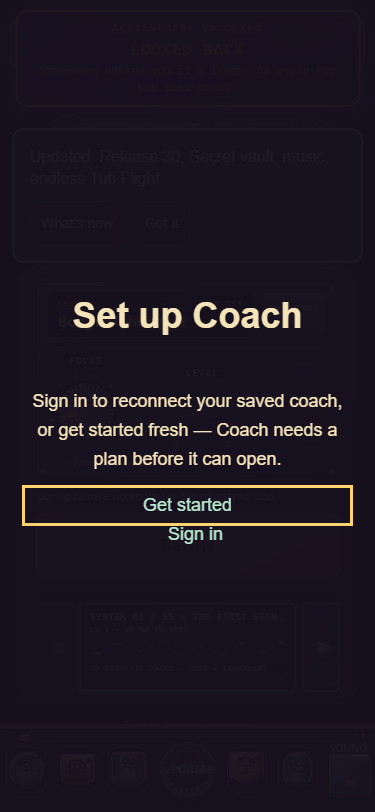
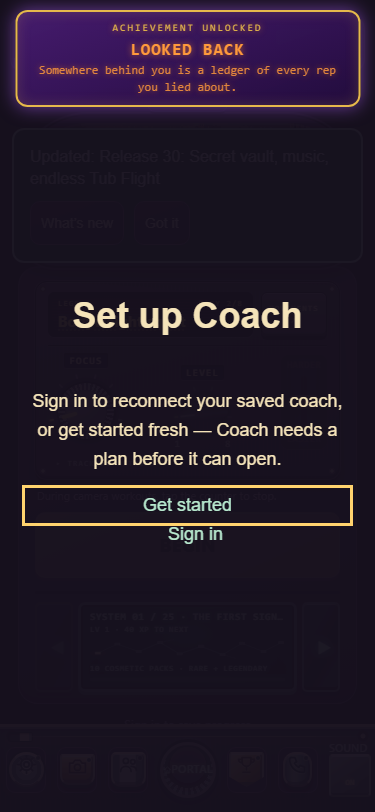
R30: e2e notes

Changed region(s): [[0.0, 0.0, 0.9973, 0.1539]]

diff --git a/.vault/cards/r30-review.md b/.vault/cards/r30-review.md
@@ -1,0 +1,152 @@
+Acceptance: (1) pod plays main-theme-one; hey-man-idk only on XP Flight dialog via myr5:music-scene; workout/select silent. (2) achievement banner top, queues, 5s then 0.6s fade, aria-live polite, tap dismiss, above modal dialogs. List concrete bugs only, with line quotes.
+diff --git a/audio/page-music.mjs b/audio/page-music.mjs
+index 67cb40f..1c62033 100644
+--- a/audio/page-music.mjs
++++ b/audio/page-music.mjs
+@@ -4,14 +4,17 @@
+ // Loops come from audio/music (scripts/music-loops.py): exactly 8 bars, loopStart 0 / loopEnd = duration, no encoder padding left.
+ import {physicalSound} from './physical-sound.mjs';
+ 
+-export const ROUTE_TRACK={pod:'hey-man-idk',workout:'hey-man-idk',select:'hey-man-idk',battlepass:'guarded-gate',achievements:'guarded-gate',vault:'guarded-gate',
++export const ROUTE_TRACK={pod:'main-theme-one',workout:null,select:null,battlepass:'hey-man-idk',achievements:'guarded-gate',vault:'guarded-gate',
+  customize:'daemon-time',customizeCoach:'daemon-time','war-room':'daemon-time',food:'sick-with-science',portal:'main-theme-one',settings:'main-theme-one',scoreboard:'laboratory-violence',meditate:null};
+ export const TRACK_LEVEL={'main-theme-one':.35};
+ export const TRACK_FADE={'main-theme-one':5};
+ export const FADE_IN=3,DUCK_LEVEL=.3,DUCK_DOWN=.12,DUCK_UP=1.2;
++// The pod and its menus share the grimoire song; hey-man-idk is only the XP Flight (battle pass) screen; workout/select stay silent (camera / pickers).
++// Pod + menus share the grimoire song; hey-man-idk is XP Flight (battle pass) only; workout/select are silent.
+ // Track for a scene. undefined = keep whatever plays (history, install...), null = silence (workout camera, meditation).
+-export function trackForRoute(id,{portalUp=false,quiet=false,pathname=''}={}){
++export function trackForRoute(id,{portalUp=false,quiet=false,pathname='',scene=null}={}){
+  if(quiet)return null;
++ if(scene==='battlepass')return 'hey-man-idk'; // XP Flight dialog opens over any page
+  if(/^\/(?:creature|war-room)\//.test(pathname))return 'daemon-time';
+  if(!id)return portalUp?ROUTE_TRACK.portal:ROUTE_TRACK.pod;
+  return ROUTE_TRACK[id];
+@@ -28,7 +31,7 @@ const MIX_KINDS=['ice','crackle','water'];
+ const BED_BOARD_GAIN=.5;
+ 
+ export function createPageMusic({sound=physicalSound,documentRef=globalThis.document,windowRef=globalThis.window,fetchRef=(...a)=>globalThis.fetch(...a),pathname=globalThis.location?.pathname||''}={}){
+- let ctx=null,out=null,duck=null,armed=false,want=undefined,epoch=0,cur=null,cut=null,manifest=null,manifestP=null,noise=null,warned=false;
++ let scene=null,ctx=null,out=null,duck=null,armed=false,want=undefined,epoch=0,cur=null,cut=null,manifest=null,manifestP=null,noise=null,warned=false;
+  const buffers=new Map(),log=[];
+  const warn=e=>{if(!warned){warned=true;console.warn('page music:',e?.message||e);}};
+  const note=(what,param,v0,v1,t0,t1)=>{log.push({what,v0,v1,t0,t1});if(log.length>60)log.shift();};
+@@ -144,7 +147,7 @@ export function createPageMusic({sound=physicalSound,documentRef=globalThis.docu
+  const quiet=()=>{const d=documentRef?.body?.dataset||{};return d.tracking==='true'||d.cameraWorkout==='true';};
+  function sync(){
+   const id=windowRef?.myr5Routes?.current?.()||'',portalUp=documentRef?.getElementById?.('portalHome')?.hidden===false;
+-  const t=trackForRoute(id,{portalUp,quiet:quiet(),pathname});
++  const t=trackForRoute(id,{portalUp,quiet:quiet(),pathname,scene});
+   if(t!==undefined)setTrack(t);
+  }
+  const unlock=()=>{if(armed)return;armed=true;documentRef.removeEventListener('pointerdown',unlock,true);documentRef.removeEventListener('keydown',unlock,true);ensure();sync();if(want!==undefined)setTrack(want);};
+@@ -155,6 +158,7 @@ export function createPageMusic({sound=physicalSound,documentRef=globalThis.docu
+   windowRef.addEventListener('myr5:sound-settings',()=>{level();if(!muted()&&ctx?.state==='suspended'&&!documentRef.hidden)void ctx.resume();});
+   windowRef.addEventListener('myr5:response',e=>{if(!duck)return;const p=duckPlan(e.detail?.state==='speaking');ramp(duck.gain,'duck',p.to,ctx.currentTime,p.seconds);});
+   windowRef.addEventListener('myr5:route',sync);
++  windowRef.addEventListener('myr5:music-scene',e=>{scene=e.detail?.scene||null;sync();});
+   windowRef.addEventListener('myr5:music-cut',()=>cutNow());
+   windowRef.addEventListener('myr5:music-resume',()=>resumeNow());
+   new MutationObserver(sync).observe(documentRef.body||documentRef.documentElement,{attributes:true,attributeFilter:['data-tracking','data-camera-workout']});
+diff --git a/battle-pass-page.mjs b/battle-pass-page.mjs
+index 4834fa5..03cc2dd 100644
+--- a/battle-pass-page.mjs
++++ b/battle-pass-page.mjs
+@@ -165,12 +165,12 @@ export function mountBattlePass(){
+  document.addEventListener('pointercancel',e=>{if(e.pointerId===activePointer)stopPointer();});
+  window.addEventListener('blur',stopPointer);
+   dialog.addEventListener('keydown',e=>{if(e.code==='Space'&&!e.repeat&&!e.altKey&&!e.ctrlKey&&!e.metaKey&&!e.target.closest('button,input,textarea,select')){e.preventDefault();scene.fire();}});
+- dialog.addEventListener('close',()=>{stopPointer();scene.stop();});
++ dialog.addEventListener('close',()=>{stopPointer();scene.stop();window.dispatchEvent(new CustomEvent('myr5:music-scene',{detail:{scene:null}}));});
+  document.addEventListener('visibilitychange',()=>{if(document.hidden){stopPointer();scene.stop();}else if(dialog.open)scene.start();});
+  window.addEventListener('resize',()=>{if(dialog.open)scene.resize();});
+  const open=()=>{
+   syncBattlePass();render();
+-  if(!dialog.open){scene.resetScore?.();dialog.showModal();}
++  if(!dialog.open){scene.resetScore?.();dialog.showModal();window.dispatchEvent(new CustomEvent('myr5:music-scene',{detail:{scene:'battlepass'}}));}
+   buildMap();
+   const targetChapter=previewFocus();
+   const target=targetChapter===chapterForLevel(rank.level)?route.querySelector('[aria-current="step"]'):route.querySelector(`[data-chapter="${targetChapter}"] [data-level="${targetChapter*10+8}"]`);
+diff --git a/modules/routes.mjs b/modules/routes.mjs
+index be9e454..cef95fd 100644
+--- a/modules/routes.mjs
++++ b/modules/routes.mjs
+@@ -241,7 +241,7 @@ function portalButton(event){
+ 
+ export function mountRoutes(){
+  if(window.myr5Routes)return window.myr5Routes;
+- import('./vault/vault-store.mjs').catch(()=>{}); // loads the store so it hears myr5:vault-bump from raw-served files (portal, pond)
++ import('./vault/vault-banner.mjs').catch(()=>{}).then(()=>import('./vault/vault-store.mjs')).catch(()=>{}); // banner first so it hears the drained-pending earns; loads the store so it hears myr5:vault-bump from raw-served files (portal, pond)
+  let seen='';
+  addEventListener('popstate',event=>{seen=location.href;sync(event);});
+  addEventListener('hashchange',()=>{const href=location.href,handled=href===seen;seen='';if(!handled)sync({type:'hashchange',state:history.state});});
+diff --git a/modules/vault/vault-banner.mjs b/modules/vault/vault-banner.mjs
+new file mode 100644
+index 0000000..7eb13e4
+--- /dev/null
++++ b/modules/vault/vault-banner.mjs
+@@ -0,0 +1,26 @@
++// "ACHIEVEMENT UNLOCKED" banner: listens for myr5:vault-earned {ids}, shows one goal at a time at the top for 5 s, fades 0.6 s.
++import {GOALS} from './vault-goals.mjs';
++export const SHOW_MS=5000,FADE_MS=600;
++/** Queue + timing, DOM-free so tests can drive it: show(goal) / hide() are callbacks. */
++export function createBanner({show,hide,done=()=>{},setTimer=setTimeout,clearTimer=clearTimeout}){
++ const q=[];let busy=false,t=0;
++ const next=()=>{const g=q.shift();if(!g){busy=false;return;}busy=true;show(g);t=setTimer(()=>{hide();t=setTimer(()=>{done();next();},FADE_MS);},SHOW_MS);};
++ return {push(ids){for(const id of ids||[]){const g=GOALS.find(x=>x.id===id);if(g)q.push(g);}if(!busy)next();},
++  dismiss(){if(!busy)return;clearTimer(t);hide();t=setTimer(()=>{done();next();},FADE_MS);}};
++}
++const CSS=`.vault-banner{position:fixed;inset:auto;margin:0;overflow:visible;left:50%;top:calc(env(safe-area-inset-top,0px) + 10px);z-index:2147483000;width:min(92vw,420px);box-sizing:border-box;padding:10px 14px;transform:translate(-50%,-14px);opacity:0;transition:opacity .6s ease,transform .6s ease;pointer-events:none;text-align:center;font:12px/1.35 ui-monospace,Menlo,Consolas,monospace;color:#ff9a3c;text-shadow:0 0 6px rgba(255,140,40,.7);background:linear-gradient(160deg,rgba(76,29,120,.88),rgba(36,12,64,.92));border:2px solid #e6b94c;border-radius:12px;box-shadow:0 0 18px rgba(176,96,255,.55),inset 0 0 14px rgba(230,185,76,.18);-webkit-backdrop-filter:blur(8px);backdrop-filter:blur(8px)}
++.vault-banner.on{opacity:1;transform:translate(-50%,0);pointer-events:auto}
++.vault-banner small{display:block;letter-spacing:.2em;font-size:10px;color:#e6b94c}
++.vault-banner b{display:block;font-size:17px;letter-spacing:.06em;margin:2px 0;text-transform:uppercase}
++.vault-banner span{display:block;opacity:.85}`;
++export function mountBanner(doc=document,win=window){
++ if(win.myr5VaultBanner)return win.myr5VaultBanner;
++ const st=doc.createElement('style');st.textContent=CSS;doc.head.append(st);
++ const el=doc.createElement('div');el.className='vault-banner';el.setAttribute('role','status');el.setAttribute('aria-live','polite');el.setAttribute('popover','manual');
++ const lab=doc.createElement('small'),ti=doc.createElement('b'),de=doc.createElement('span');lab.textContent='ACHIEVEMENT UNLOCKED';el.append(lab,ti,de);doc.body.append(el);
++ const b=createBanner({show:g=>{ti.textContent=g.title;de.textContent=g.clue;try{el.showPopover();}catch{el.style.display='block';}void el.offsetWidth;el.classList.add('on');},hide:()=>el.classList.remove('on'),done:()=>{try{el.hidePopover();}catch{el.style.display='';}}});
++ el.addEventListener('click',()=>b.dismiss());
++ win.addEventListener('myr5:vault-earned',e=>b.push(e.detail?.ids));
++ return win.myr5VaultBanner=b;
++}
++if(typeof document!=='undefined'&&typeof window!=='undefined')mountBanner();
+diff --git a/release-info.mjs b/release-info.mjs
+index a1d93b3..df4ff53 100644
+--- a/release-info.mjs
++++ b/release-info.mjs
+@@ -1,4 +1,4 @@
+ import {BUILD_ID} from './release-build.mjs';
+-export const RELEASE=Object.freeze({id:'2026-10-06-release-27-'+BUILD_ID,title:'Release 27: Customizer keeps your coach',date:'2026-10-06',url:'https://myr5.mominc.online/repair-coach',notes:[
+- "The customizer opens on the body you earned and saved instead of MYR5, and picks you make while your account re-checks are kept."
++export const RELEASE=Object.freeze({id:'2026-10-06-release-30-'+BUILD_ID,title:'Release 30: Secret vault, music, endless Tub Flight',date:'2026-10-06',url:'https://myr5.mominc.online/repair-coach',notes:[
++ "Secret vault, music, endless Tub Flight. Something is hidden in the grimoire."
+ ]});
+// "ACHIEVEMENT UNLOCKED" banner: listens for myr5:vault-earned {ids}, shows one goal at a time at the top for 5 s, fades 0.6 s.
+import {GOALS} from './vault-goals.mjs';
+export const SHOW_MS=5000,FADE_MS=600;
+/** Queue + timing, DOM-free so tests can drive it: show(goal) / hide() are callbacks. */
+export function createBanner({show,hide,done=()=>{},setTimer=setTimeout,clearTimer=clearTimeout}){
+ const q=[];let busy=false,t=0;
+ const next=()=>{const g=q.shift();if(!g){busy=false;return;}busy=true;show(g);t=setTimer(()=>{hide();t=setTimer(()=>{done();next();},FADE_MS);},SHOW_MS);};
+ return {push(ids){for(const id of ids||[]){const g=GOALS.find(x=>x.id===id);if(g)q.push(g);}if(!busy)next();},
+  dismiss(){if(!busy)return;clearTimer(t);hide();t=setTimer(()=>{done();next();},FADE_MS);}};
+}
+const CSS=`.vault-banner{position:fixed;inset:auto;margin:0;overflow:visible;left:50%;top:calc(env(safe-area-inset-top,0px) + 10px);z-index:2147483000;width:min(92vw,420px);box-sizing:border-box;padding:10px 14px;transform:translate(-50%,-14px);opacity:0;transition:opacity .6s ease,transform .6s ease;pointer-events:none;text-align:center;font:12px/1.35 ui-monospace,Menlo,Consolas,monospace;color:#ff9a3c;text-shadow:0 0 6px rgba(255,140,40,.7);background:linear-gradient(160deg,rgba(76,29,120,.88),rgba(36,12,64,.92));border:2px solid #e6b94c;border-radius:12px;box-shadow:0 0 18px rgba(176,96,255,.55),inset 0 0 14px rgba(230,185,76,.18);-webkit-backdrop-filter:blur(8px);backdrop-filter:blur(8px)}
+.vault-banner.on{opacity:1;transform:translate(-50%,0);pointer-events:auto}
+.vault-banner small{display:block;letter-spacing:.2em;font-size:10px;color:#e6b94c}
+.vault-banner b{display:block;font-size:17px;letter-spacing:.06em;margin:2px 0;text-transform:uppercase}
+.vault-banner span{display:block;opacity:.85}`;
+export function mountBanner(doc=document,win=window){
+ if(win.myr5VaultBanner)return win.myr5VaultBanner;
+ const st=doc.createElement('style');st.textContent=CSS;doc.head.append(st);
+ const el=doc.createElement('div');el.className='vault-banner';el.setAttribute('role','status');el.setAttribute('aria-live','polite');el.setAttribute('popover','manual');
+ const lab=doc.createElement('small'),ti=doc.createElement('b'),de=doc.createElement('span');lab.textContent='ACHIEVEMENT UNLOCKED';el.append(lab,ti,de);doc.body.append(el);
+ const b=createBanner({show:g=>{ti.textContent=g.title;de.textContent=g.clue;try{el.showPopover();}catch{el.style.display='block';}void el.offsetWidth;el.classList.add('on');},hide:()=>el.classList.remove('on'),done:()=>{try{el.hidePopover();}catch{el.style.display='';}}});
+ el.addEventListener('click',()=>b.dismiss());
+ win.addEventListener('myr5:vault-earned',e=>b.push(e.detail?.ids));
+ return win.myr5VaultBanner=b;
+}
+if(typeof document!=='undefined'&&typeof window!=='undefined')mountBanner();
